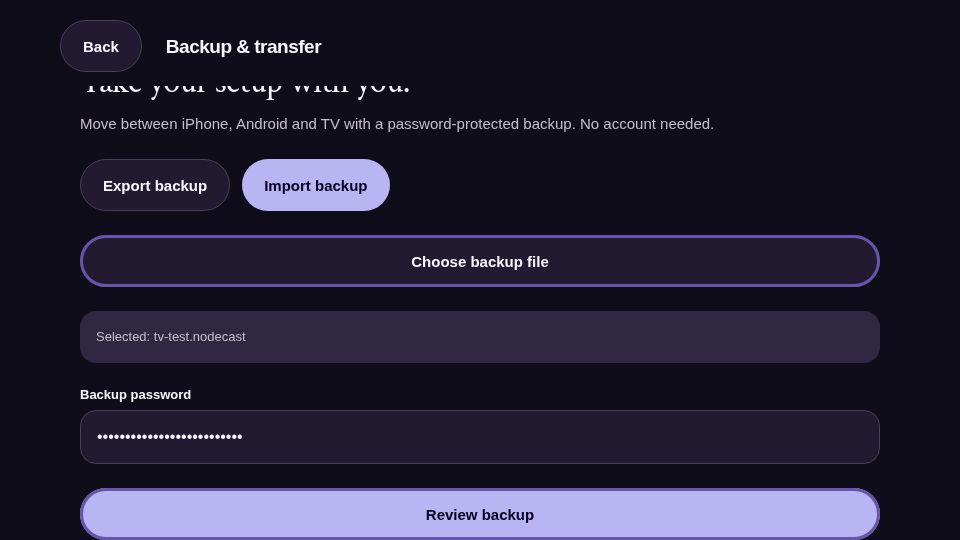
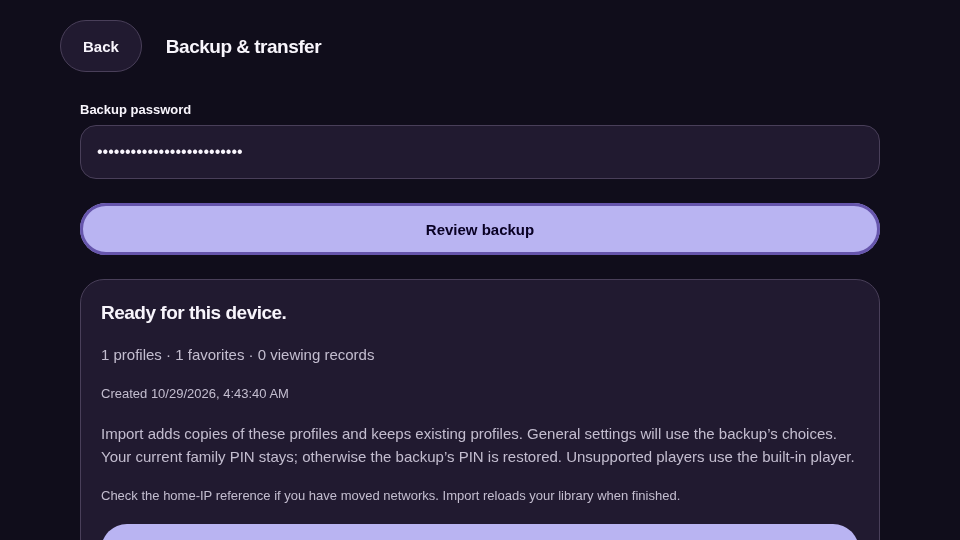
Document device transfer and strengthen native transfer verification

diff --git a/scripts/android-mobile-features-smoke.py b/scripts/android-mobile-features-smoke.py
@@ -32,14 +32,14 @@ try:
  click('Open TV guide');click('Add full TV guide');text('XMLTV URL','http://10.0.2.2:9090/guide.xml');click('Save and refresh guide',True);find('Phone Guide Match',timeout=45)
  OUT.joinpath('emulator-mobile-full-guide.png').write_bytes(subprocess.check_output(['adb','exec-out','screencap','-p']))
  back();settings('Appearance');click('dark appearance');back();settings('Family controls')
- text('New six-digit PIN','123456');text('Confirm PIN','123456');click('Set family PIN',True);find('Find category to protect',timeout=30);click('Protect Phone test',True);click('Lock protected content now',True)
- click('Unlock family controls');text('Family PIN','000000');click('Unlock');find('PIN did not match.',timeout=30)
+ text('New six-digit PIN','123456');text('Confirm PIN','123456');click('Set family PIN',True);find('Find category to protect',timeout=90);click('Protect Phone test',True);click('Lock protected content now',True)
+ click('Unlock family controls');text('Family PIN','000000');click('Unlock');find('PIN did not match.',timeout=90)
  # Clear only this synthetic test PIN field; no secrets enter logs.
- click('Family PIN');adb('shell','input','keyevent','123');adb('shell','input','keyevent','67','67','67','67','67','67');adb('shell','input','text','123456');adb('shell','input','keyevent','66');click('Unlock');find('Find category to protect',timeout=30)
+ click('Family PIN');adb('shell','input','keyevent','123');adb('shell','input','keyevent','67','67','67','67','67','67');adb('shell','input','text','123456');adb('shell','input','keyevent','66');click('Unlock');find('Find category to protect',timeout=90)
  OUT.joinpath('emulator-mobile-family.png').write_bytes(subprocess.check_output(['adb','exec-out','screencap','-p']))
  click('Lock protected content now',True);back();click('Library');assert not any('Open Phone Test Channel' in (n.get('content-desc') or '') for n in dump().iter('node'))
  adb('shell','am','force-stop','com.nhshajib.nodecast');adb('shell','am','start','-W','-n','com.nhshajib.nodecast/.MainActivity');time.sleep(6)
- settings('Family controls');click('Unlock family controls');text('Family PIN','123456');click('Unlock');find('Find category to protect',timeout=30);back();click('Library');find('Open Phone Test Channel');click('Open TV guide');find('Phone Guide Match',timeout=30);assert counts['guide']==1,'Native guide cache was not reused'
+ settings('Family controls');click('Unlock family controls');text('Family PIN','123456');click('Unlock');find('Find category to protect',timeout=90);back();click('Library');find('Open Phone Test Channel');click('Open TV guide');find('Phone Guide Match',timeout=30);assert counts['guide']==1,'Native guide cache was not reused'
  OUT.joinpath('emulator-mobile-guide-persisted.png').write_bytes(subprocess.check_output(['adb','exec-out','screencap','-p']))
  import runpy;runpy.run_path('scripts/android-backup-smoke.py',run_name='__main__')
  OUT.joinpath('emulator-mobile-features-result.json').write_text(json.dumps({'passed':['Synthetic Xtream connection','Native XMLTV import and SQLite persistence across process restart','Dark appearance','Six-digit family PIN native crypto','PIN prompt inside Settings sheet','Wrong PIN rejected, correct PIN restores access','Protected category hidden and state survives process restart'],'scope':'Android API 35 x86-64 emulator. Physical iPhone/PiP/AirPlay are not verified.'},indent=2)+'\n')

diff --git a/verification/transfer/check.py b/verification/transfer/check.py
@@ -43,6 +43,7 @@ with sync_playwright() as p:
   pending.value.set_files(str(path));page.get_by_text('Selected:',exact=False).wait_for();page.get_by_label('Backup password',exact=True).fill('wrong-backup-password');page.get_by_role('button',name='Review backup',exact=True).click();page.get_by_text('Could not unlock this backup.',exact=False).wait_for(timeout=60000)
   expect(page.get_by_role('button',name='Import profiles & settings',exact=True)).to_have_count(0)
   page.get_by_label('Backup password',exact=True).fill(password);page.get_by_role('button',name='Review backup',exact=True).click();page.get_by_text('Ready for this device.',exact=True).wait_for(timeout=60000);page.get_by_text('1 profiles · 1 favorites',exact=False).wait_for()
+  page.get_by_text('Ready for this device.',exact=True).scroll_into_view_if_needed()
   page.screenshot(path=str(out/('tv-backup-review.png' if tv else 'mobile-backup-review.png')))
   page.get_by_role('button',name='Import profiles & settings',exact=True).click();page.get_by_role('button',name='Live TV' if tv else 'Add playlist',exact=True).wait_for(timeout=30000)
   if tv:page.get_by_role('button',name='Settings',exact=True).click()

diff --git a/android-mobile/RELEASE.md b/android-mobile/RELEASE.md
@@ -1,13 +1,8 @@
-Android TV 0.6.1 is a current-source rebuild. It keeps the compact guide layout so programme timelines stay visible, and version code 601 installs over the 0.6.0 TV app. The phone APK in this notes file is still the published 0.6.0 mobile build. Native videos can offer PiP; Chromecast is not included. Choose the correct APK:
+NodeCast 0.6.4 adds Clear recents and password-encrypted backup/import for changing devices. Keep profiles, server details, favorites, playback/guide/appearance choices and optional viewing history. Import adds profile copies and keeps existing profiles. Open Settings → Backup & transfer. No account is required.
 
-- [**NodeCast mobile 0.6.0 APK**](https://github.com/nhshajib/NodeCast/releases/download/android-v0.6.0/NodeCast-mobile-0.6.0.apk): Android phone/tablet interface. This file is unchanged.
-- [**NodeCast TV 0.6.1 APK**](https://github.com/nhshajib/NodeCast/releases/download/android-v0.6.1/NodeCast-tv-0.6.1.apk): Android TV / Google TV with fullscreen series playback and a bottom-right Next episode button.
+- [NodeCast mobile 0.6.4 APK](https://github.com/nhshajib/NodeCast/releases/download/android-v0.6.4/NodeCast-mobile-0.6.4.apk): Android phone/tablet interface.
+- [NodeCast TV 0.6.4 APK](https://github.com/nhshajib/NodeCast/releases/download/android-v0.6.4/NodeCast-tv-0.6.4.apk): Android TV / Google TV with remote navigation and Next episode.
 
-Both include embedded VLC, local Xtream Codes / M3U profiles and the JavaScript bundle. No Expo Go, PC connection or weekly signing renewal is needed. Each edition has its own app ID and local storage. Install subsequent updates over the existing app to preserve profiles.
+Both are standalone personal-testing builds with embedded JavaScript and VLC. Install over the existing edition to retain local data; Android has no weekly signing renewal. These APKs use the existing Android test signing key and are not Play Store releases. TV backup transfer requires a compatible system file picker.
 
-These personal testing Release builds use the standard Android test signing key. They are not Play Store releases. Configure a private signing key before public/store distribution. Android may ask permission to install from your browser or file manager.
-
-TV edition instructions: https://github.com/nhshajib/NodeCast/tree/main/android-tv
-Mobile edition instructions: https://github.com/nhshajib/NodeCast/tree/main/android-mobile
-
-Native playback and remote behavior still need confirmation on physical devices. Use only content you are authorized to access.
+[Installation guides](https://github.com/nhshajib/NodeCast#choose-your-edition) · [Version history](https://github.com/nhshajib/NodeCast/blob/main/CHANGELOG.md)

diff --git a/docs/DOWNLOADS.md b/docs/DOWNLOADS.md
@@ -26,6 +26,14 @@ Use the published version shown on your product page. iPhone and Android release
 
 When updating, keep the same app/signing identity and install over the existing app. Deleting the app can remove local profiles. iPhone free signing needs periodic renewal; Android APKs have no weekly signing renewal.
 
+## Move to a different device
+
+In NodeCast 0.6.4 or later, open **Settings → Backup & transfer → Export backup**. Choose a password of at least 12 characters, create the encrypted file, and save it using Files/the system picker. Keep the password separately; it cannot be recovered.
+
+Copy the `.nodecast` file to the new device. Open **Settings → Backup & transfer → Import backup**, choose the file, enter its password, review its contents, then select **Import profiles & settings**. Profiles, provider details, favorites and settings transfer; history is optional. Existing profiles stay. An existing family PIN stays; a fresh device restores the backup PIN. Guides and library caches download again. Check your saved home-IP reference if you have changed networks.
+
+Android TV needs a compatible system document picker/file manager for import and export. Unsupported external-player preferences fall back to the built-in player.
+
 ## Check a downloaded file
 
 Every product page links to its build record with the exact filename, byte size and SHA-256 hash. You can compare the hash on Windows:
